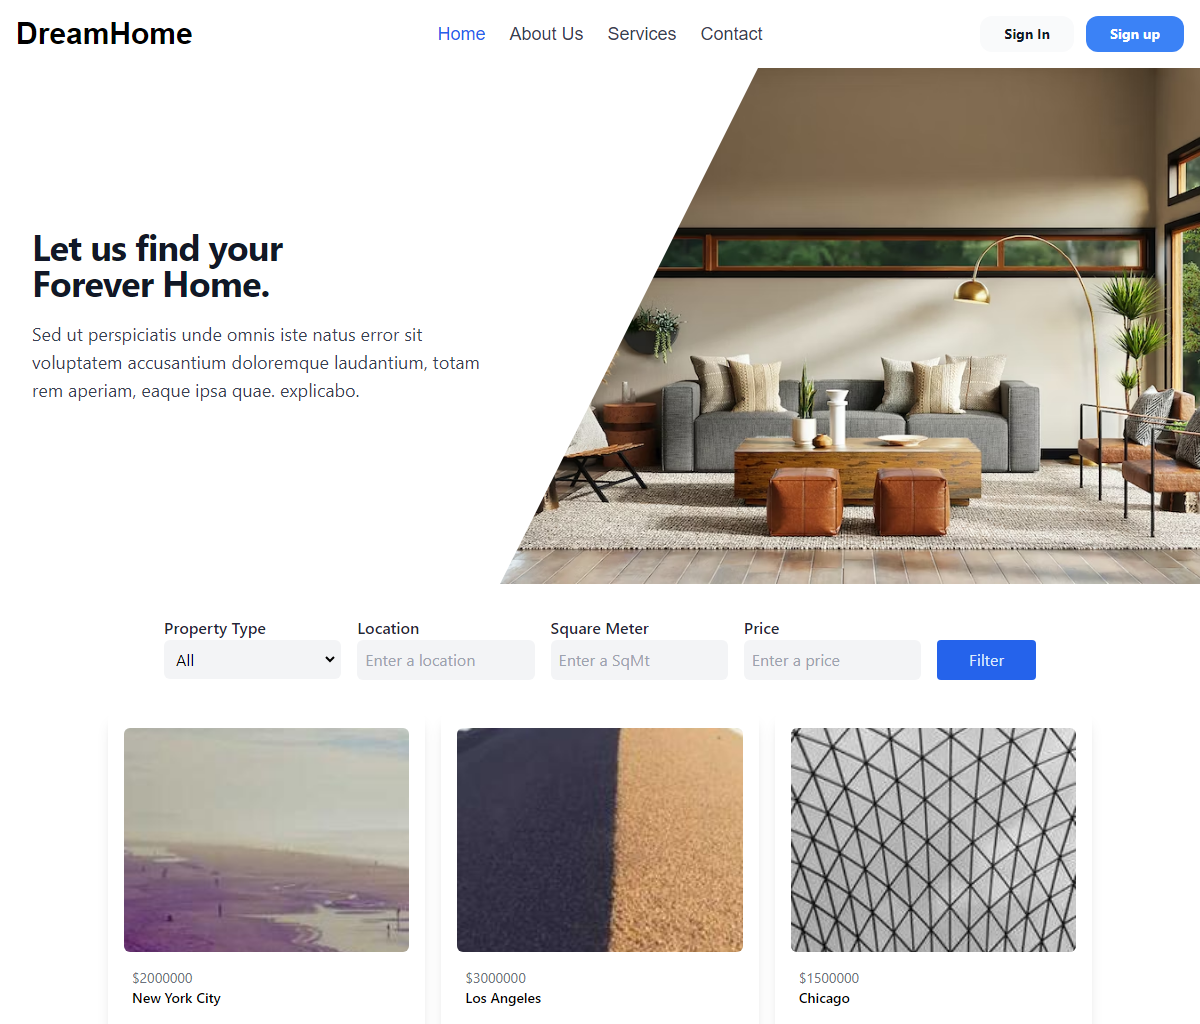
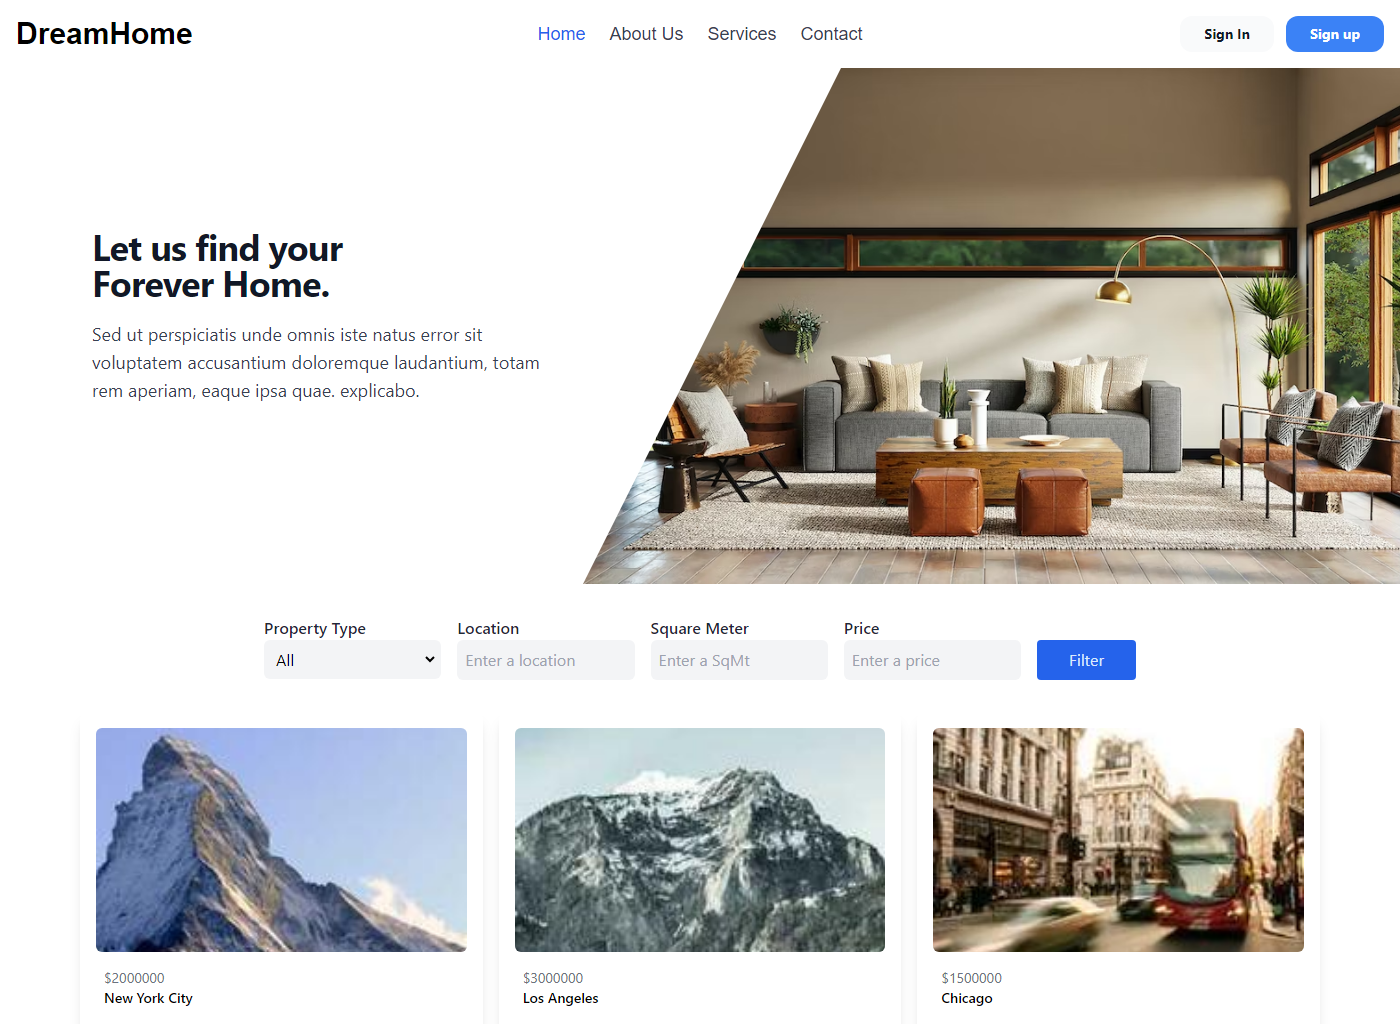
Change: changes the view port and screenshort

diff --git a/screenShort.js b/screenShort.js
@@ -4,7 +4,7 @@ import puppeteer from "puppeteer";
   const browser = await puppeteer.launch();
   const page = await browser.newPage();
   await page.goto("https://real-state-alpha.vercel.app/");
-  await page.setViewport({width: 1200, height: 1024});
+  await page.setViewport({width: 1400, height: 1024});
   await page.screenshot({ path: "public/screenshot.png" });
   await browser.close();
 })();
